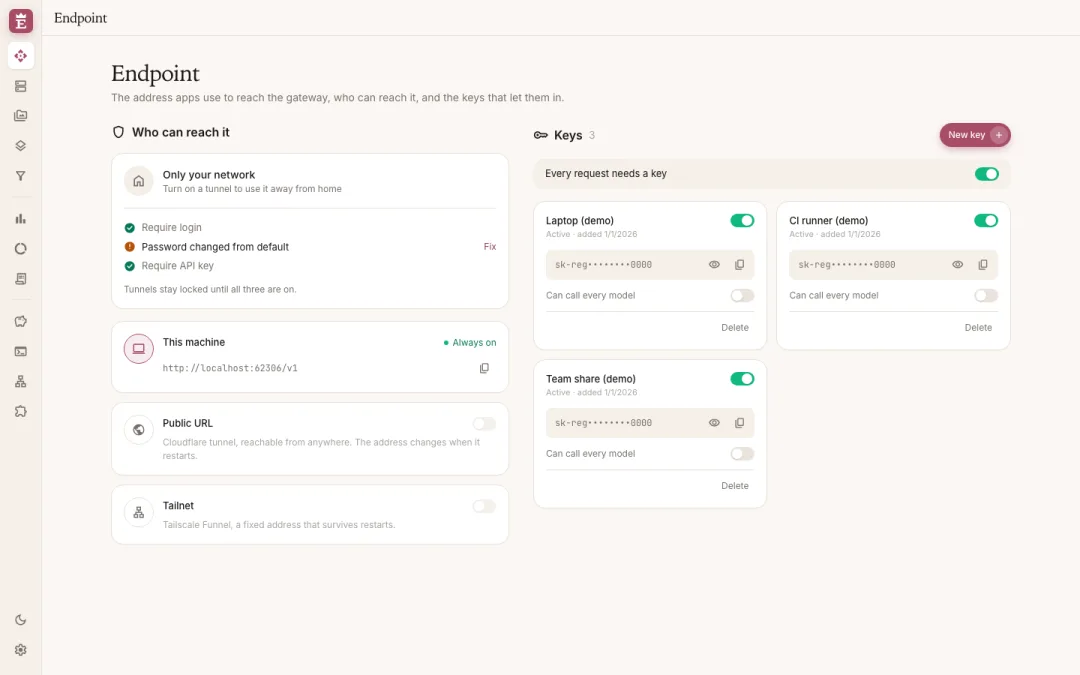
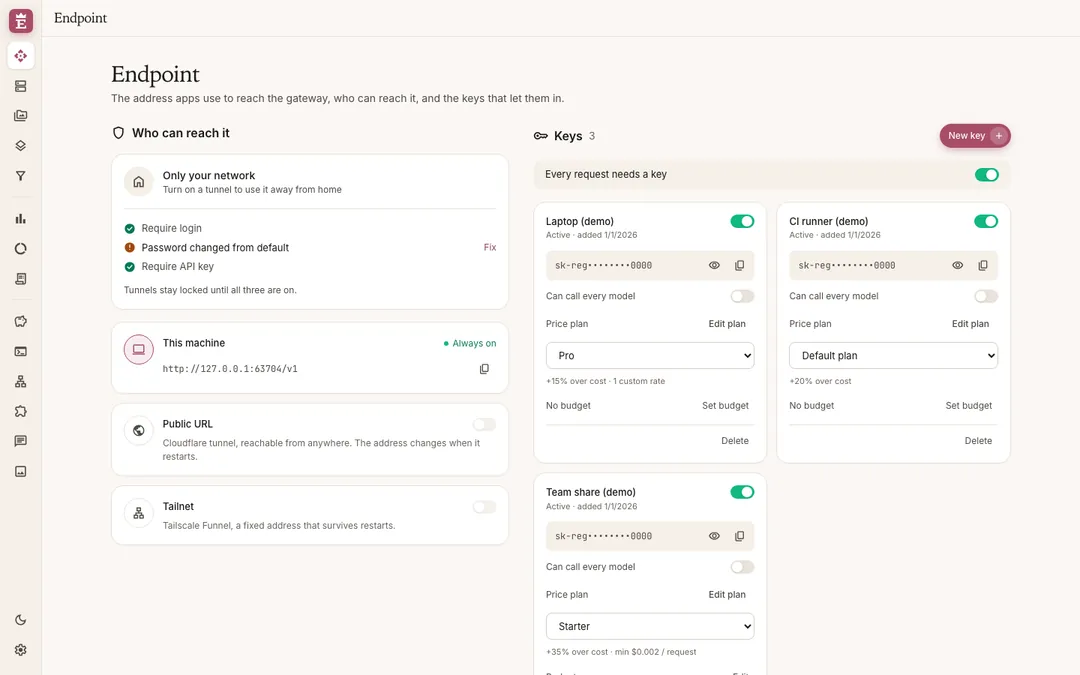
docs(readme): refresh for reseller, security and observability features (#141)
* docs(readme): refresh features, quick start and security; reproducible screenshots

* docs(readme): retake screenshots with the requested-model seed

* build(readme-shots): pin sharp as a devDependency; precise local-only wording

diff --git a/vite.config.ts b/vite.config.ts
@@ -85,6 +85,7 @@ export default defineConfig({
       "!/scripts/ci",
       "!/scripts/pr-shots",
       "!/scripts/pr-shots.mjs",
+      "!/scripts/readme-shots.mjs",
       "!/scripts/pr-shots-publish.mjs",
       "!/scripts/pxpipe-tree-hash.mjs",
       "!/scripts/ui-smoke",

diff --git a/README.md b/README.md
@@ -11,7 +11,7 @@
   <img alt="Providers overview: live providers, healthy accounts and failures at a glance" src="docs/images/readme/hero-light.webp">
 </picture>
 
-Point Claude Code, Codex, Cursor, Cline, OpenCode or any OpenAI-compatible client at `http://localhost:20128/v1`. For every request, Elizabeth's Proxy picks a provider and account, translates between API formats, falls back when something fails, and shows you live what's healthy.
+Point Claude Code, Codex, Cursor, Cline, OpenCode or any OpenAI-compatible client at `http://localhost:20128/v1`. For every request, Elizabeth's Proxy picks a provider and account, translates between API formats, falls back when something fails, and records what happened. You can also hand out API keys to other people, price their usage and cap their spend.
 
 The command, package, data folder and Docker image are called `regent`.
 
@@ -24,26 +24,31 @@ docker run -d --name regent -p 20128:20128 \
   -e INITIAL_PASSWORD='pick-a-real-password' \
   -e JWT_SECRET="$(openssl rand -hex 32)" \
   -v regent-data:/app/data \
-  ghcr.io/leon-marzahn/regent:100
+  ghcr.io/leon-marzahn/regent:102
 ```
 
 Open <http://localhost:20128/dashboard>, sign in, add a provider. The API is at `http://localhost:20128/v1`.
+
+> [!IMPORTANT]
+> Provider credentials are encrypted at rest. On first start the key is generated into the data folder as `credentials.key`. **Back it up together with the database**: without it the stored credentials can't be read. To manage the key yourself, set `CREDENTIALS_KEY` (32 bytes, e.g. `openssl rand -base64 32`) instead.
 
 Images are multi-arch (amd64, arm64). Tags follow [epoch semver](https://antfu.me/posts/epoch-semver):
 
 | Tag | Tracks |
 | --- | --- |
-| `100.2.3` | exactly that release |
-| `100.2` | newest patch of 100.2 |
-| `100` | newest release in major 100, no breaking changes (recommended) |
+| `102.0.1` | exactly that release |
+| `102.0` | newest patch of 102.0 |
+| `102` | newest release in major 102, no breaking changes (recommended) |
 | `latest` | newest stable release, including new majors |
+
+Older majors keep getting fixes for a while: backports are released from `support/v<major>` branches and move that major's tags, never `latest`. More in [`docs/UPDATES.md`](docs/UPDATES.md).
 
 ### From source
 
 Needs Node (version in `.node-version`) to run and [Bun](https://bun.sh) 1.3+ to install.
 
 ```bash
-cp .env.example .env          # set INITIAL_PASSWORD and JWT_SECRET
+cp .env.example .env          # set INITIAL_PASSWORD, JWT_SECRET and DATA_DIR
 bun install
 bun run build
 PORT=20128 bun run start      # dashboard: http://localhost:20128/dashboard
@@ -51,8 +56,20 @@ PORT=20128 bun run start      # dashboard: http://localhost:20128/dashboard
 
 For development: `PORT=20128 NEXT_PUBLIC_BASE_URL=http://localhost:20128 bun run dev`.
 
-> [!IMPORTANT]
-> The default `INITIAL_PASSWORD` is `123456`. Change it before the server is reachable from anywhere but your own machine.
+### Configuration
+
+The full list, with comments, is in [`.env.example`](.env.example). The ones that matter for a deployment you keep:
+
+| Variable | What it does |
+| --- | --- |
+| `INITIAL_PASSWORD` | Dashboard password on first start. The default is `123456`: change it. |
+| `JWT_SECRET` | Signs the session cookie. Set a long random value. |
+| `DATA_DIR` | Where the database lives (default `~/.regent`, `/app/data` in Docker). |
+| `CREDENTIALS_KEY` | Encryption key for stored credentials. Unset: `DATA_DIR/credentials.key` is generated and used. |
+| `CREDENTIALS_KEY_PREVIOUS` | Old keys during a rotation (`vp run rotate-credentials-key`). |
+| `API_KEY_SECRET`, `MACHINE_ID_SALT` | Server-side secrets with placeholder defaults. Set your own. |
+| `TRUSTED_PROXIES` | Reverse proxies besides loopback whose `X-Forwarded-For` is believed. |
+| `REGENT_UPDATE_CHECK` | `false` turns off the daily release check. |
 
 The `regent` CLI launcher (tray icon, auto-start) lives in [`cli/`](cli/) and isn't on npm yet.
 
@@ -66,54 +83,67 @@ Anything else: use base URL `http://localhost:20128/v1` and a key from **Endpoin
 
 ## What it does
 
-**Routing**
+### Routing
 
-- **Combos.** Name a list of models and send that name as the model. Steps run in order, take turns, run per chat, or are all asked at once. After a fallback a combo can stay on the step that worked or go back up. Each step shows whether it's ready, and resting steps are skipped without a request.
+- **Combos.** Name a list of models and send that name as the model. Steps run in order, take turns, run per chat, or are all asked at once. After a fallback a combo can stay on the step that worked or go back up. Resting steps are skipped without a request.
 
-  <img alt="Combo with two steps and its routing options" src="docs/images/readme/combos.webp" width="720">
+  <img alt="Combo with four steps and its routing options" src="docs/images/readme/combos.webp" width="720">
 
 - **Multi-account fallback.** Several accounts per provider rotate; one that hits a limit cools down per model and the next takes over. A conversation sticks to the same account while it can, so the provider's prompt cache keeps getting hits.
 - **Format translation.** Clients speak OpenAI Chat, OpenAI Responses, Anthropic Messages or Gemini; the proxy translates to whatever the upstream speaks (including Kiro, Cursor, Vertex, Ollama and others), streaming included.
-
-**Accounts and providers**
-
 - **OAuth and API keys.** Sign in with subscription accounts via OAuth or paste API keys; tokens refresh on their own. Free, no-auth providers work out of the box.
 - **Media providers.** Speech, transcription, embeddings, image, video and music generation, web search and fetch, each with its own providers and combos.
+- **Request pipelines.** Steps that clean requests before they reach a provider: strip tags or sections, redact keys and tokens, custom regex. Attach one to an API key or combo, or pick it per request with the `X-Regent-Pipeline` header.
+
+  <img alt="Request pipeline with its steps and a live preview" src="docs/images/readme/request-pipelines.webp" width="720">
+
+- **Token saver.** Compresses tool output (command logs, file listings, diffs) before the model sees it. If anything goes wrong it leaves the request untouched.
 - **TLS fingerprint impersonation (opt-in).** Per connection, upstream calls can present a Chrome, Edge, Firefox, Safari or OkHttp TLS/HTTP2 fingerprint (via the optional `wreq-js` package).
 
-**Seeing what happens**
+### Observability
 
-- **Usage.** Every request live: model, provider, tokens in/out, cache hits, cost, latency, errors, with a drawer for the full request. Totals and trends by day, week or month.
+- **Live traffic and usage.** Every request as it happens: model, provider, tokens in/out, cache hits, cost, latency, errors. Totals and trends by day, week or month.
 
-  <img alt="Live traffic and usage totals" src="docs/images/readme/usage.webp" width="720">
+  <img alt="Usage page with live traffic and totals" src="docs/images/readme/usage.webp" width="720">
+
+- **Request inspector.** Click a request to see its route: which combo step and account were tried, why each one failed, and which one answered.
+
+  <img alt="Request inspector showing two fallbacks before a successful attempt" src="docs/images/readme/request-inspector.webp" width="720">
 
 - **Quota.** Remaining limits per subscription account (Claude Code, Codex, GitHub Copilot, Groq and others that report them): session and weekly windows, a timeline of upcoming resets, and capacity left across all accounts of a provider.
 
   <img alt="Quota page with per-account limits and a reset timeline" src="docs/images/readme/quota.webp" width="720">
 
-**Shaping requests**
+- **Playground.** Chat with a connected model from the dashboard to try it out.
 
-- **Request pipelines.** Steps that clean requests before they reach a provider: strip tags or sections, redact keys and tokens, custom regex. Attach a pipeline to an API key or combo, or pick one per request with the `X-Regent-Pipeline` header; a live preview shows what changes.
+### Keys, pricing and budgets
 
-  <img alt="Request pipeline with a redact-secrets step" src="docs/images/readme/request-pipelines.webp" width="720">
+- **Price plans per key.** Each key is charged by a plan: a markup over upstream cost, an optional minimum per request, and custom per-model rates. Usage records both what you pay (cost) and what the key is charged.
+- **Budgets.** Per key (on what it's charged) and global (on what you pay), per day or month: spend, token and request limits, warnings at chosen percentages, and an optional hard stop that refuses requests once a limit is reached. Alerts go out by email over SMTP or Resend, to you and optionally to the key's holder.
 
-- **Token saver.** Compresses tool output (command logs, file listings, diffs) before the model sees it. If anything goes wrong it leaves the request untouched.
+  <img alt="API key card with its price plan and budget meter" src="docs/images/readme/key-billing.webp" width="320">
 
-**Reaching it**
+- **Customer view.** At `/customer`, a key holder enters their key to see their own spend, budget, daily chart and recent requests. It shows the model name they asked for, never the provider, account or your cost. Off unless you turn it on in **Settings**, and can be blocked per key.
 
-- **Endpoint.** API keys for your clients, an optional "every request needs a key" switch, and optional Cloudflare or Tailscale tunnels. Tunnels stay locked until login, a changed password and API keys are all on.
+  <img alt="Customer view of one key's spend and budget" src="docs/images/readme/customer-view.webp" width="720">
+
+### Reaching it
+
+- **Endpoint.** API keys for your clients, a "every request needs a key" switch, and optional Cloudflare or Tailscale tunnels. Tunnels stay locked until login, a changed password and API keys are all on.
 
   <img alt="Endpoint page with access checks and API keys" src="docs/images/readme/endpoint.webp" width="720">
 
-- **Update notices.** About once a day the dashboard checks GitHub for a newer release and shows a quiet notice. Only the version list is fetched. Optionally it can call a redeploy webhook (Coolify, Portainer, Dokploy…) when a new version lands; set it up in **Settings → Updates**. `REGENT_UPDATE_CHECK=false` turns both off. Details, image tags and a Coolify example: [`docs/UPDATES.md`](docs/UPDATES.md).
+- **Update notices.** About once a day the dashboard checks GitHub for a newer release and shows a quiet notice. Only the version list is fetched. Optionally it calls a redeploy webhook (Coolify, Portainer, Dokploy…) when a new version lands; set it up in **Settings → Updates**. Details: [`docs/UPDATES.md`](docs/UPDATES.md).
 
 ## Security
 
 - **Local by default.** Data stays on your machine in `~/.regent` (`%APPDATA%\regent` on Windows), or `DATA_DIR`. Nothing is reachable from the internet unless you start a tunnel or expose the port yourself.
-- **Change the password.** Set `INITIAL_PASSWORD`, and set `JWT_SECRET` to a long random value. Also set `API_KEY_SECRET` and `MACHINE_ID_SALT` for a deployment you keep. The full list is in [`.env.example`](.env.example).
-- **Require API keys** (the switch on the Endpoint page) whenever anything other than your own machine can reach the port.
-- Behind a reverse proxy, `X-Forwarded-For` is trusted only from a loopback proxy.
-- Secrets such as the redeploy webhook token are never shown again or returned by the API, and are left out of backups.
+- **Login and keys on by default.** The dashboard requires login and the API requires a key out of the box. Routes that write tool configs, start tunnels or install software are limited to the local machine (or the local CLI's token).
+- **Change the defaults.** Set `INITIAL_PASSWORD`, a long random `JWT_SECRET`, and your own `API_KEY_SECRET` and `MACHINE_ID_SALT`.
+- **Credentials encrypted at rest.** Provider API keys and OAuth tokens, proxy passwords and notification and SSO secrets are stored with AES-256-GCM. The key is `CREDENTIALS_KEY` or `DATA_DIR/credentials.key`; without it the server refuses to start rather than fall back to plaintext. Rotate it with `vp run rotate-credentials-key`. Not encrypted: client API keys, the password-protected DB export, and the config files the CLI Tools page writes.
+- **Secrets stay out of responses and logs.** Stored secrets are never sent back by the API (it reports only that one is set) and are left out of backups. Keys, tokens and cookies are redacted in request logs and debug output.
+- **Forwarded headers.** `X-Forwarded-For` is trusted only from a loopback proxy, or from the hosts listed in `TRUSTED_PROXIES`.
+- **Pinned PXPIPE.** The optional PXPIPE install is pinned to one version and hash; a copy that doesn't match is not loaded.
 
 ## Docs
 
@@ -121,7 +151,7 @@ Anything else: use base URL `http://localhost:20128/v1` and a key from **Endpoin
 - [`docs/DESIGN.md`](docs/DESIGN.md): the dashboard's design system.
 - [`docs/UPDATES.md`](docs/UPDATES.md): update notices, image tags, the redeploy webhook.
 - [`CHANGELOG.md`](CHANGELOG.md): what changed in each release.
-- [`CLAUDE.md`](CLAUDE.md): commands, tests and conventions for contributors.
+- [`CLAUDE.md`](CLAUDE.md): commands, tests and conventions for contributors. README screenshots are retaken from demo data with `bun run readme:shots`.
 
 ## Credits
 
